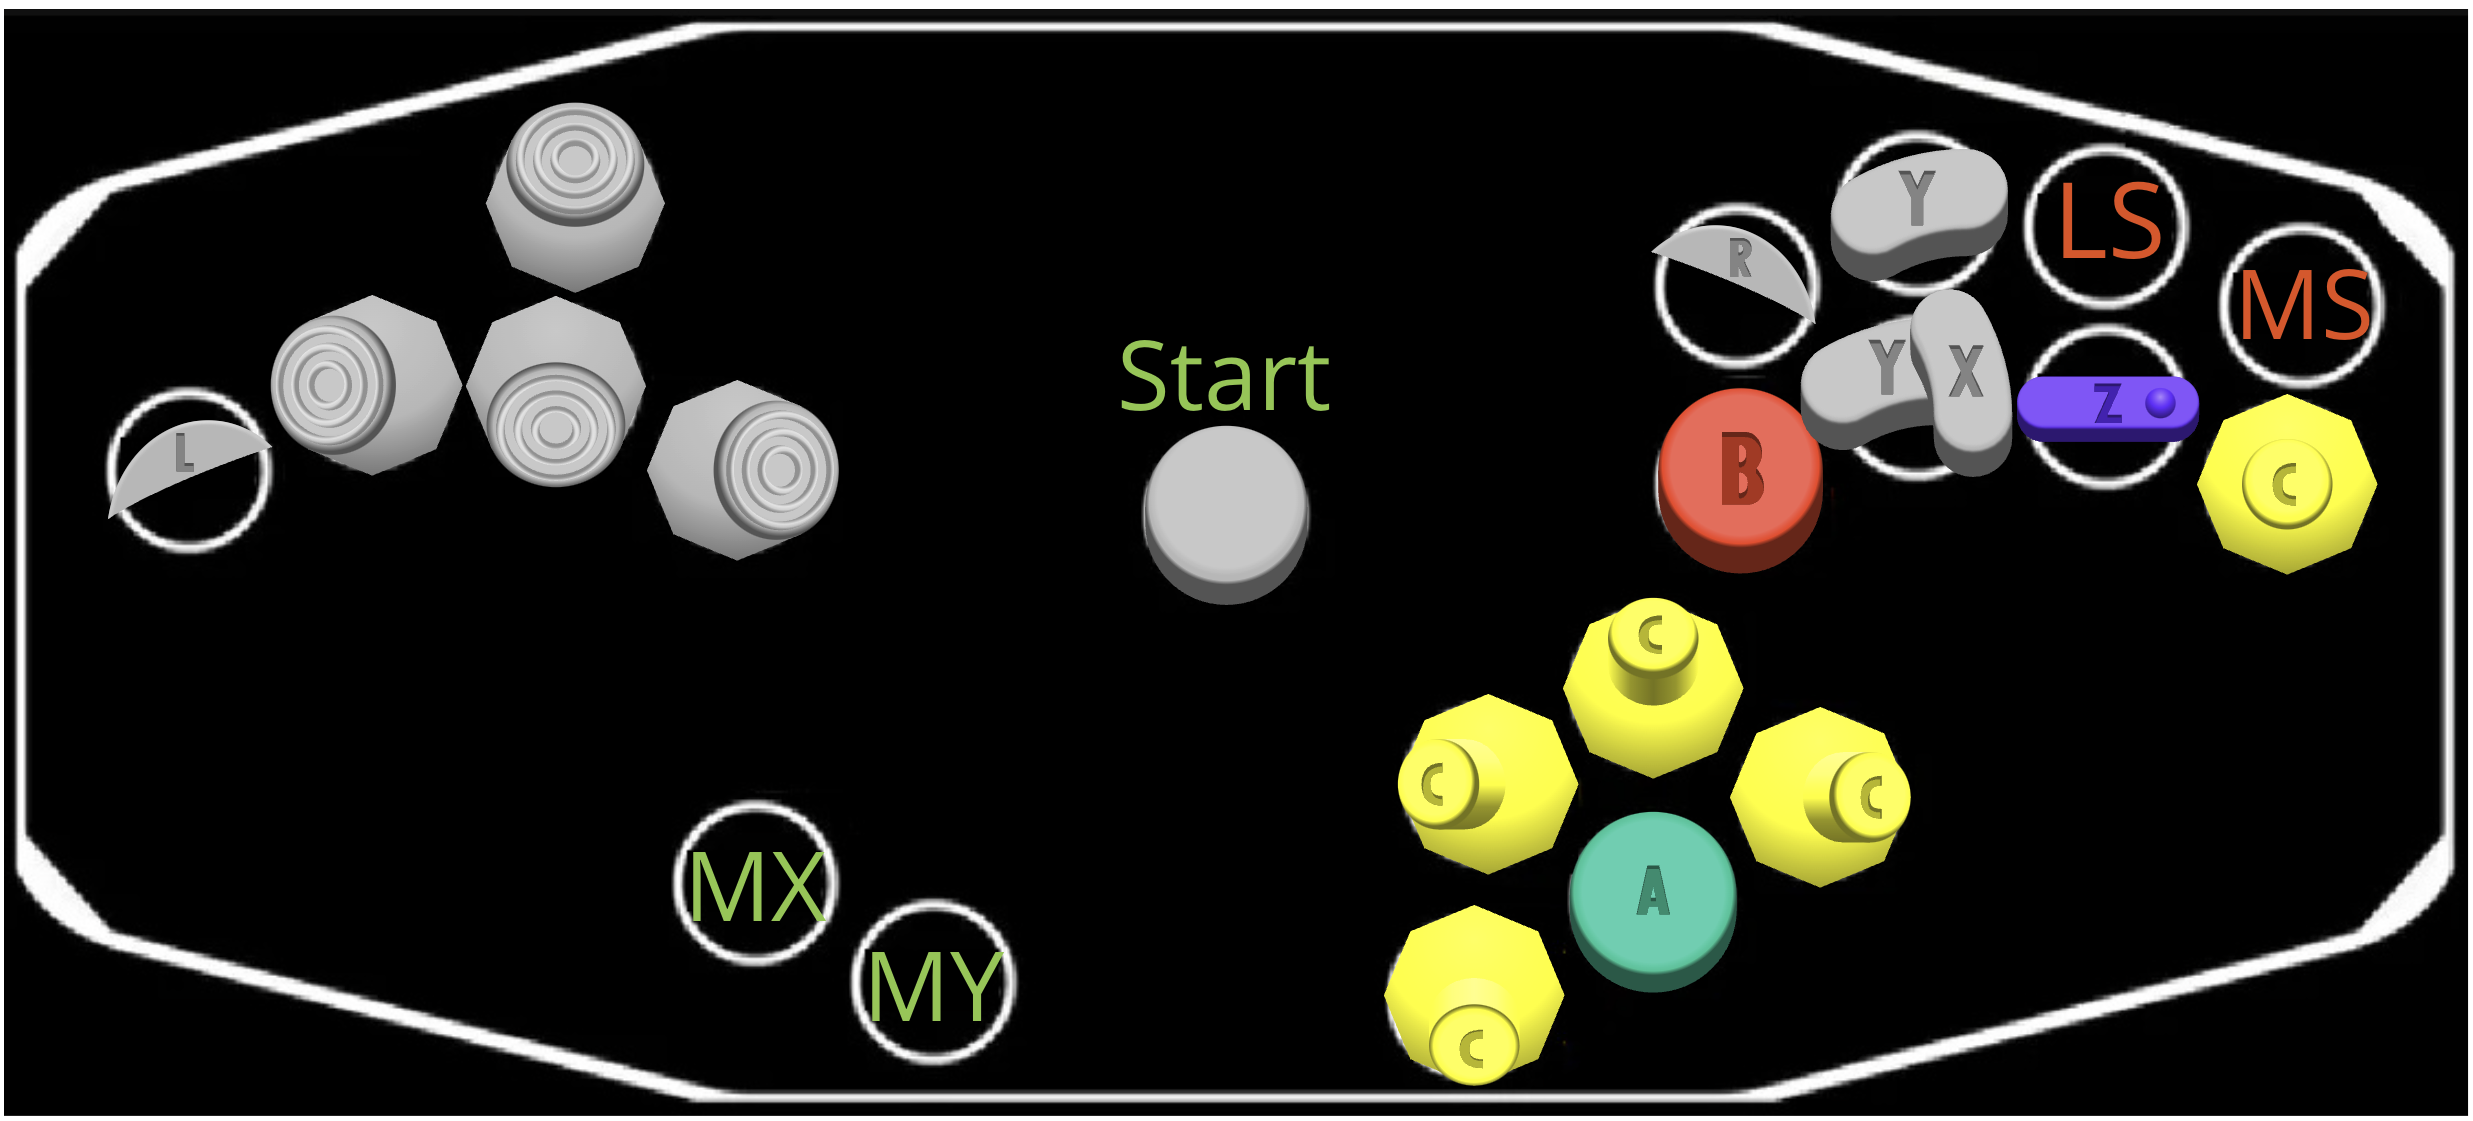
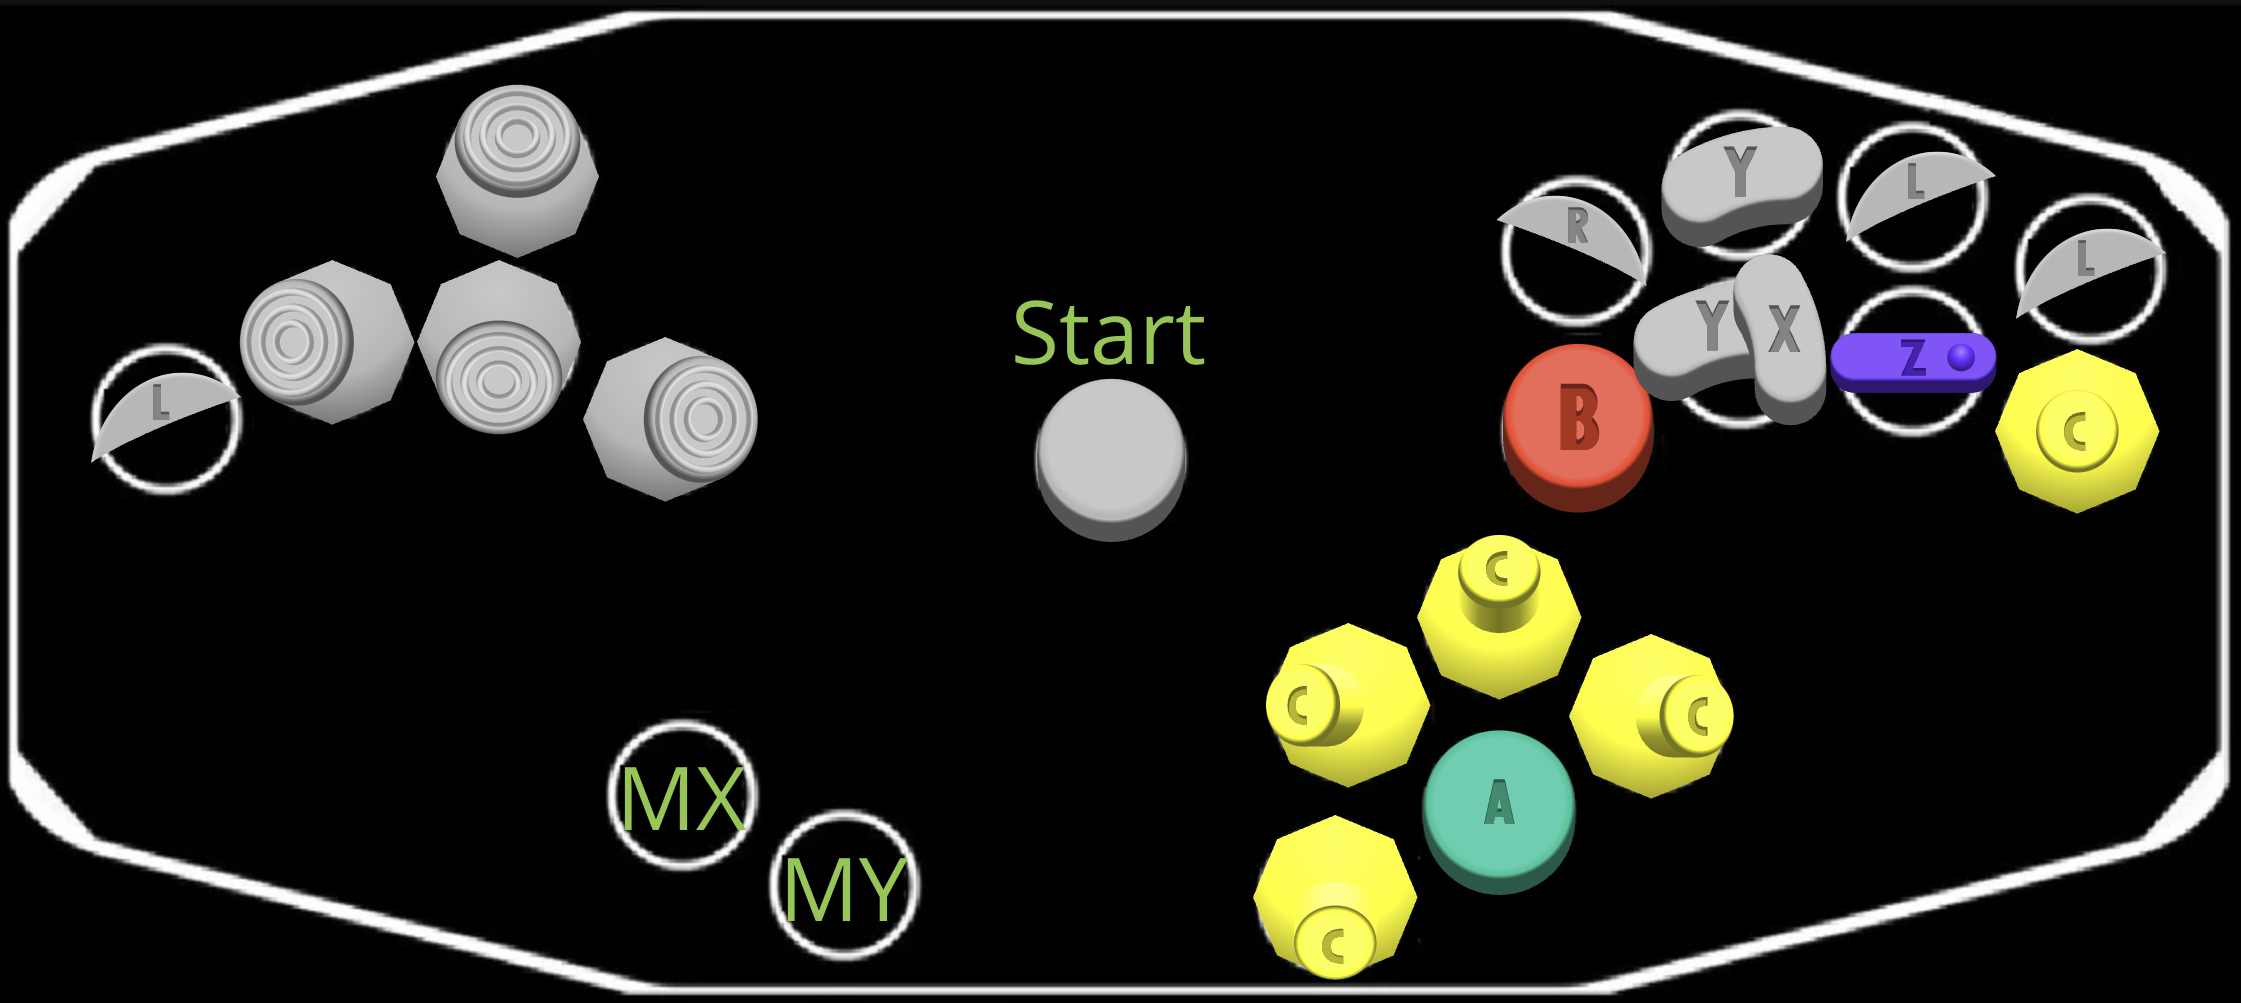
Update Button Layout Images (#25)
* Update Button Layout images where needed. Add some new ones ahead of time.

* Minor changes to README and MODES

diff --git a/README.md b/README.md
@@ -84,15 +84,15 @@ There are several things on my roadmap I have yet to implement, in no particular
 
 * Update and extend documentation.
     * Add competitive disclaimer.
-    * Add GCN + Ultimate button layout images.
-    * Add WFPP + Melee/P+ button layout images.
-    * Add HID + Melee/P+/Ultimate layout images.
-    * Add XInput + Melee/P+/Ultimate layout images.
+    * ~Add GCN + Ultimate button layout images.~
+    * ~Add WFPP + Melee/P+ button layout images.~
+    * ~Add HID + Melee/P+/Ultimate layout images.~
+    * ~Add XInput + Melee layout image.~
     * Add PS4 button layout images (through Brooks Adapter + XInput).
 * Implement `Up2` button across **ALL** modes.
 * Add Nintendo Switch WFPP + Leverless DAC Algorithm/mode for better fighting game compatibility on Switch, a DInput option for PS4/PC compatibility.
     * Change mod button and mapping as necessary.
-    * Add WFPP + Leverless layout image.
+    * ~Add WFPP + Leverless layout image.~
     * Add PS4 button layout images. (through Brooks Adapter + DInput)
 * Refactor and implement all SOCD resolutions on all Melee/P+/Leverless modes (not just Ultimate) when compiling.
     * Add resolution for Capcom Cup SOCD
@@ -113,7 +113,7 @@ There are several things on my roadmap I have yet to implement, in no particular
 * Add all relevant SOCD resolutions for all Melee/P+/Ultimate modes.
 * Add GCN + Ultimate "Macro" DAC Algorithm/mode with `A`+`B` smash attack macro and `X`+`Y` shorthop macro directly mapped.
     * Change default mode in GCN & USB
-    * Add GCN + Ultimate "Macro" button layout image
+    * ~Add GCN + Ultimate "Macro" button layout image~
 * Add WFPP + Ultimate DAC Algorithm/mode with `A`+`B` smash attack macro and `X`+`Y` shorthop macro directly mapped.
     * Change default mode in USB, take priority over previous changes to default
     * Add WFPP + Ultimate button layout image
@@ -124,10 +124,10 @@ There are several things on my roadmap I have yet to implement, in no particular
 
 ## Other Documentation
 
-* [Mode Selection / Button Mapping](docs/MODES.md)
-* [Programming/Updating](docs/PROGRAMMING.md)
-* [JulienBernard3383279/pico-rectangle (Arte) README (v 1.2.4)](docs/vendor/arte/README.md)
-* [rana-sylvatica/pico-rectangle-rana-digital README (v 1.1.0)](docs/vendor/rana/README.md)
+* ### [Mode Selection / Button Mapping](docs/MODES.md)
+* ### [Programming/Updating](docs/PROGRAMMING.md)
+* ### [JulienBernard3383279/pico-rectangle (Arte) README (v 1.2.4)](docs/vendor/arte/README.md)
+* ### [rana-sylvatica/pico-rectangle-rana-digital README (v 1.1.0)](docs/vendor/rana/README.md)
 
 ## LEGAL INFORMATION
 

diff --git a/docs/MODES.md b/docs/MODES.md
@@ -47,22 +47,22 @@ There are several modes that can be used either in USB modes (pretending to be a
 - `GP6` (by default, `MX`) => GCN (Ultimate) Joybus mode.
 - `GP6` (by default, `MX`) => GCN (Ultimate) USB adapter mode.
 
-![GCN Ultimate](../img/modes/gcn_ultimate.png)
-![GCN Ultimate (mod)](../img/modes/gcn_ultimate_mod.png)
+![GCN + Ultimate](../img/modes/gcn_ultimate.png)
+![GCN + Ultimate (mod)](../img/modes/gcn_ultimate_mod.png)
 
 ### Melee
 - `No button` => GCN (Melee) Joybus mode.
 - `GP12` (by default, `CUp`) => GCN (Melee) USB adapter mode.
   
-![GCN Melee](../img/modes/gcn_melee.png)
-![GCN Melee (mod)](../img/modes/gcn_melee_mod.png)
+![GCN + Melee](../img/modes/gcn_melee.png)
+![GCN + Melee (mod)](../img/modes/gcn_melee_mod.png)
 
 ### P+
 - `GP2` / `GP7` (by default, `Right` / `MY`) => GCN (P+) Joybus mode.
 - `GP7` (by default, `MY`) => GCN (P+) USB adapter mode.
 
-![GCN Plus](../img/modes/gcn_plus.png)
-![GCN Plus (mod)](../img/modes/gcn_plus_mod.png)
+![GCN + Plus](../img/modes/gcn_plus.png)
+![GCN + Plus (mod)](../img/modes/gcn_plus_mod.png)
 
 ## USB only Modes
 
@@ -129,8 +129,8 @@ With the Melee F1 DAC algorithm, `Start` is mapped to +. `L`, `R` and `Z` are re
 
 - `GP2` (by default, `Right`) => Wired Fight Pad Pro with P+ logic (P+ DAC algorithm + Wired Fight Pad Pro USB configuration).
 
-![WFPP + Melee](../img/modes/wfpp_plus.png)
-![WFPP + Melee (mod)](../img/modes/wfpp_plus_mod.png)
+![WFPP + Plus](../img/modes/wfpp_plus.png)
+![WFPP + Plus (mod)](../img/modes/wfpp_plus_mod.png)
 
 ### PC Controllers
 
@@ -144,6 +144,15 @@ With the Melee F1 DAC algorithm, `Start` is mapped to +. `L`, `R` and `Z` are re
 
 - `GP22` (by default, `Y`) resp. => HID controller with Ult logic.
 
+![WFPP + Ultimate](../img/modes/hid_ultimate.png)
+![WFPP + Ultimate (mod)](../img/modes/hid_ultimate_mod.png)
+
 - `GP21` (by default, `X`) resp. => HID controller with Melee logic.
 
+![WFPP + Melee](../img/modes/hid_melee.png)
+![WFPP + Melee (mod)](../img/modes/hid_melee_mod.png)
+
 - `GP10` (by default, `LS`) resp. => HID controller with P+ logic.
+
+![WFPP + Plus](../img/modes/hid_plus.png)
+![WFPP + Plus (mod)](../img/modes/hid_plus_mod.png)
